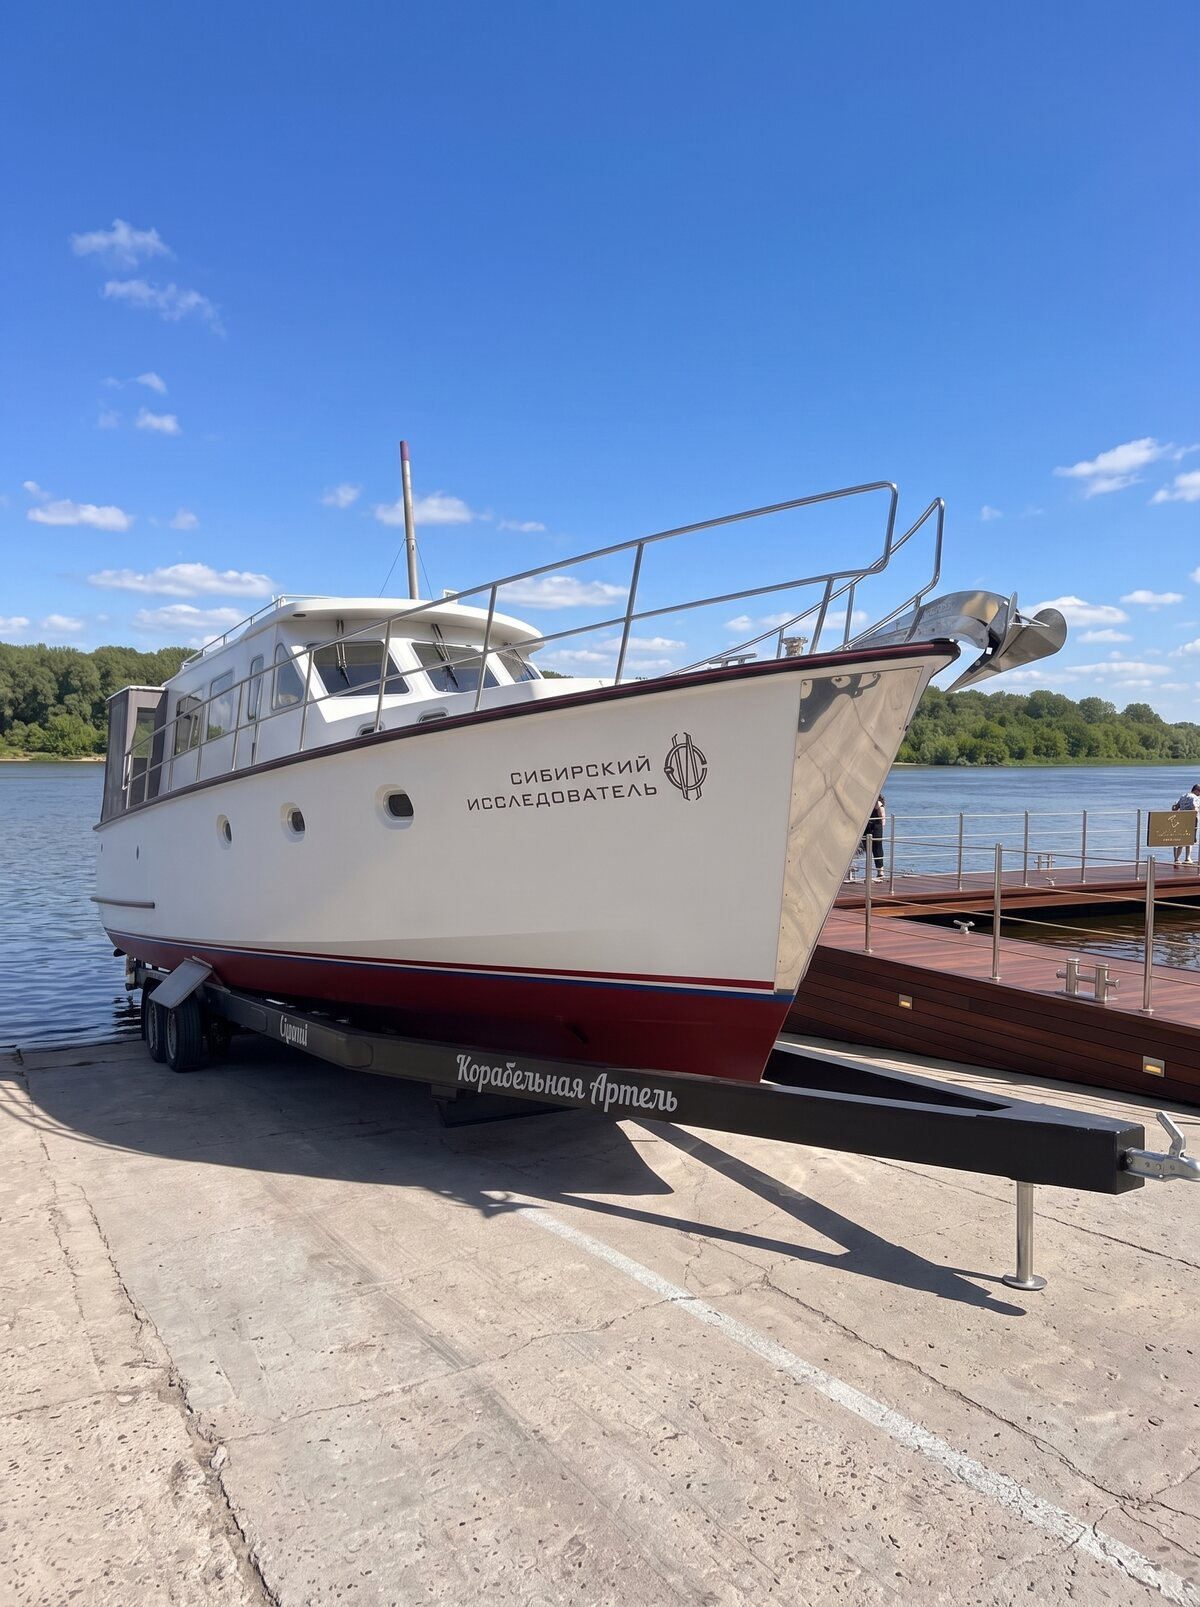
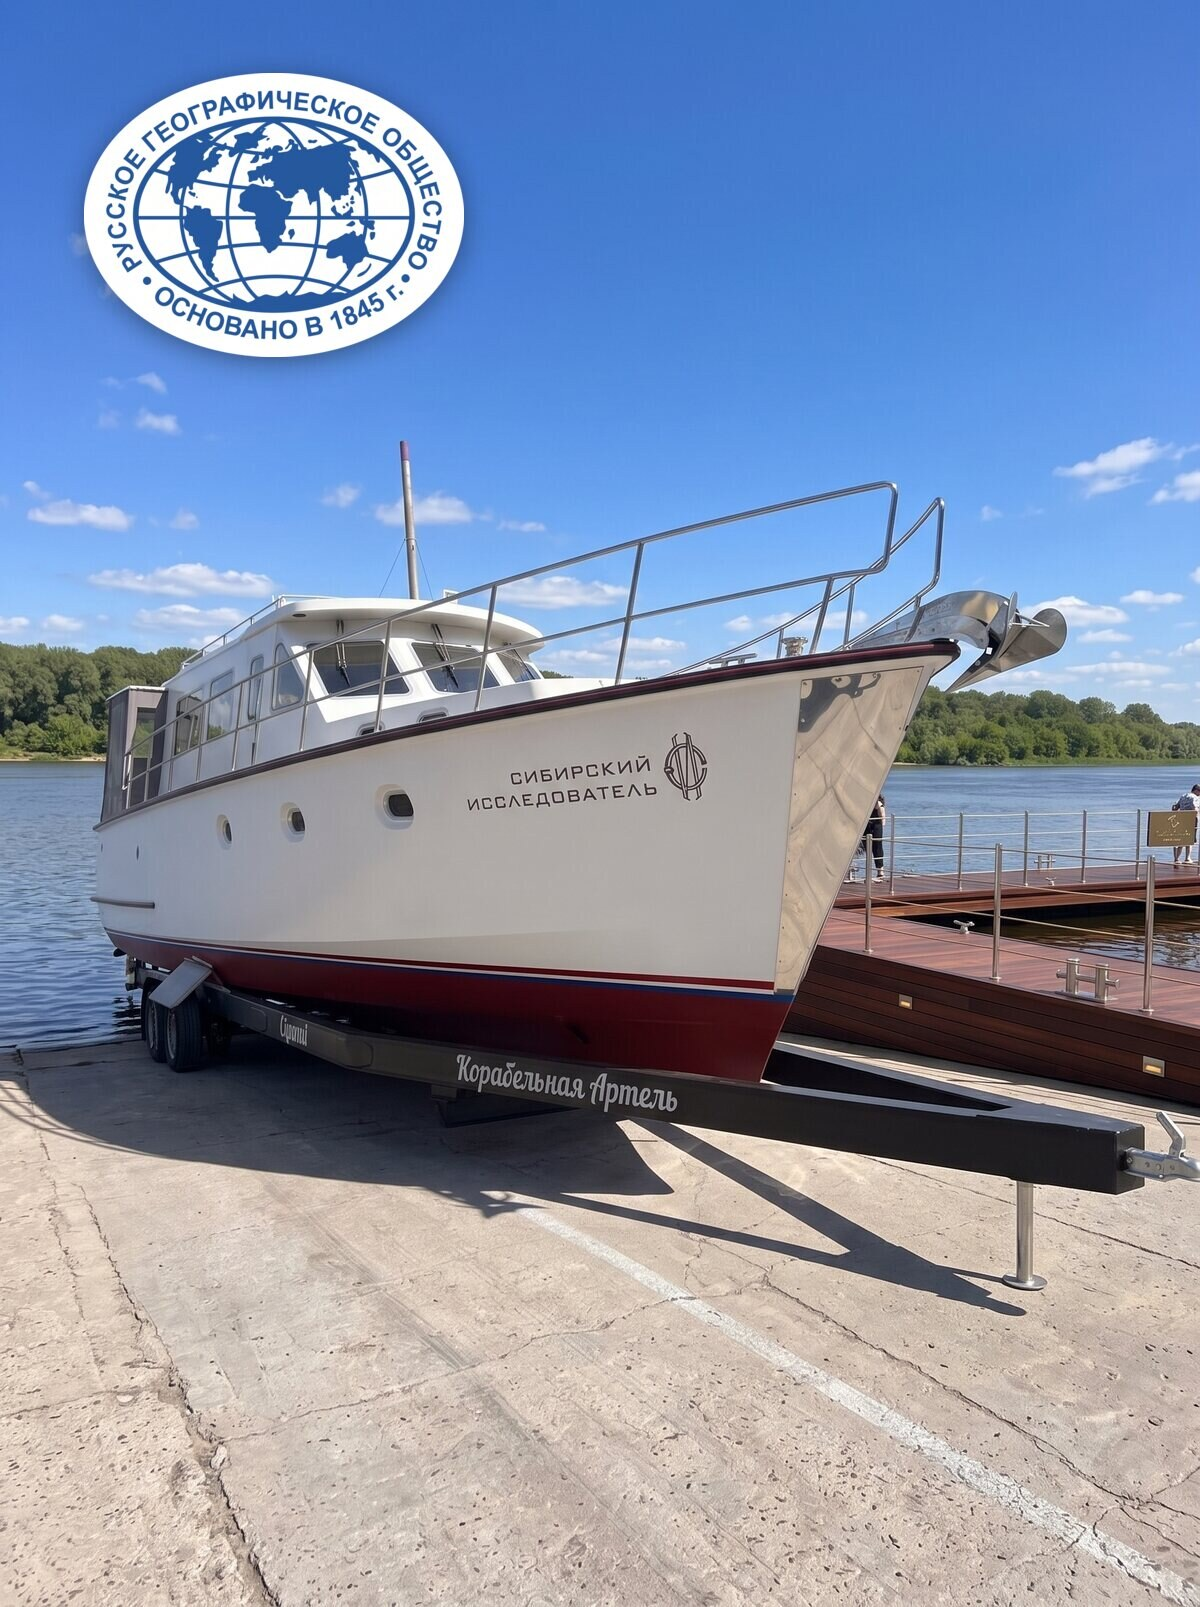
Fleet: strip photo hero for clean header; add client badges to sold T-Rex 37/40 & Siberian
- Fleet header: remove washed-out photo hero, replace with a light typographic
  band ("Флот Корабельной артели") flowing out of the nav, tabs below.
- T-Rex 37 card: МЧС Казахстан emblem, top-left (trex37-card.jpg + cardImg).
- T-Rex 40 card: Служба спасения Саратовской области medal on wavy flag,
  top-left (trex40-card.jpg + cardImg).
- Сибирский card: РГО oval emblem badge, top-left (sibirsky-card.jpg updated).
- fleet.js: cache-bust card images (IMG_V) so replaced-in-place photos refresh.

Changed region(s): [[0.0617, 0.0311, 0.4008, 0.2489]]

diff --git a/css/styles.css b/css/styles.css
@@ -365,28 +365,24 @@ button{font:inherit;color:inherit;background:none;border:none;cursor:pointer}
 /* ============================================================
    FLEET PAGE  (hero + family sections of boat cards + filters)
    ============================================================ */
-.fleet-hero{position:relative;min-height:clamp(440px,60vh,640px);display:flex;flex-direction:column;justify-content:flex-end;color:var(--white);overflow:hidden}
-.fleet-hero__bg{position:absolute;inset:0;background-size:cover;background-position:center;filter:brightness(.62) saturate(1.12)}
-.fleet-hero__scrim{position:absolute;inset:0;background:
-  linear-gradient(180deg,rgba(0,0,0,.35),transparent 40%),
-  linear-gradient(0deg,rgba(0,0,0,.72),transparent 55%)}
-.fleet-hero__inner{position:relative;z-index:2;width:100%;max-width:var(--maxw);margin:0 auto;padding:clamp(2rem,5vw,4rem) var(--gutter)}
-.fleet-hero__title{font-family:var(--serif);font-weight:600;font-size:clamp(2.4rem,5vw,4rem);line-height:1;text-shadow:0 2px 24px rgba(0,0,0,.5)}
-.fleet-hero__sub{margin-top:1rem;max-width:46ch;font-size:clamp(1rem,1.3vw,1.15rem);line-height:1.5;color:rgba(255,255,255,.92);text-shadow:0 1px 12px rgba(0,0,0,.5)}
-/* filter band tucked into the bottom of the hero image */
+.fleet-hero{position:relative;display:flex;flex-direction:column;justify-content:flex-end;
+  color:var(--text);background:var(--white);overflow:hidden}
+.fleet-hero__inner{position:relative;z-index:2;width:100%;max-width:var(--maxw);margin:0 auto;
+  padding:clamp(2.25rem,5vw,3.75rem) var(--gutter) clamp(1.75rem,3.5vw,2.5rem)}
+.fleet-hero__title{font-family:var(--serif);font-weight:600;font-size:clamp(1.9rem,3.2vw,2.75rem);line-height:1.05;color:var(--navy)}
+.fleet-hero__sub{margin-top:1rem;max-width:46ch;font-size:clamp(1rem,1.3vw,1.15rem);line-height:1.5;color:var(--text-2)}
+/* filter band tucked at the base of the header */
 .fleet-hero__band{position:relative;z-index:3;
-  background:linear-gradient(0deg,rgba(11,15,40,.85),rgba(11,15,40,.42));
-  -webkit-backdrop-filter:blur(3px);backdrop-filter:blur(3px);
-  border-top:1px solid rgba(255,255,255,.16)}
+  border-top:1px solid var(--grey-100)}
 .fleet-hero__band-inner{width:100%;max-width:var(--maxw);margin:0 auto;padding:0 var(--gutter);
   display:flex;gap:.5rem}
 .fleet-tab{flex:1 1 0;position:relative;background:none;border:0;cursor:pointer;
   font-family:var(--sans);font-weight:600;font-size:clamp(13px,1.05vw,15px);letter-spacing:.01em;
-  color:rgba(255,255,255,.66);padding:1.35rem .5rem 1.5rem;transition:color .2s ease}
+  color:var(--grey-500);padding:1.35rem .5rem 1.5rem;transition:color .2s ease}
 .fleet-tab::after{content:"";position:absolute;left:.6rem;right:.6rem;bottom:1rem;height:2px;
-  border-radius:2px;background:rgba(255,255,255,.2);transition:background .2s ease}
-.fleet-tab:hover{color:#fff}
-.fleet-tab.is-active{color:#fff}
+  border-radius:2px;background:var(--grey-100);transition:background .2s ease}
+.fleet-tab:hover{color:var(--navy)}
+.fleet-tab.is-active{color:var(--navy)}
 .fleet-tab.is-active::after{background:var(--brass)}
 
 /* filter + quick-link bar */

diff --git a/fleet.html b/fleet.html
@@ -8,7 +8,7 @@
 <link rel="preconnect" href="https://fonts.googleapis.com">
 <link rel="preconnect" href="https://fonts.gstatic.com" crossorigin>
 <link href="https://fonts.googleapis.com/css2?family=IBM+Plex+Serif:wght@400;500;600&family=Manrope:wght@400;500;600;700&display=swap" rel="stylesheet">
-<link rel="stylesheet" href="css/styles.css?v=133">
+<link rel="stylesheet" href="css/styles.css?v=138">
 </head>
 <body>
 
@@ -29,13 +29,10 @@
 
   <!-- ===================== FLEET ===================== -->
   <main>
-    <!-- HERO with filter band tucked into the bottom of the image -->
+    <!-- HEADER — solid ink band flowing out of the nav; filter tabs tucked at its base -->
     <section class="fleet-hero">
-      <div class="fleet-hero__bg" style="background-image:url('assets/img/fleet-hero.jpg')"></div>
-      <div class="fleet-hero__scrim"></div>
       <div class="fleet-hero__inner">
-        <h1 class="fleet-hero__title">Флот</h1>
-        <p class="fleet-hero__sub">Катера, экспедиционные суда, прогулочные лодки и корабли — построенные на верфи в Саратове с 1992 года.</p>
+        <h1 class="fleet-hero__title">Флот Корабельной артели</h1>
       </div>
       <div class="fleet-hero__band">
         <div class="fleet-hero__band-inner" id="fleetControls">
@@ -155,7 +152,7 @@
     </div>
   </footer>
 
-  <script src="js/boats-data.js?v=215"></script>
-  <script src="js/fleet.js?v=38"></script>
+  <script src="js/boats-data.js?v=218"></script>
+  <script src="js/fleet.js?v=39"></script>
 </body>
 </html>

diff --git a/js/boats-data.js b/js/boats-data.js
@@ -94,7 +94,7 @@ const BOATS = [
         { name: "нижняя палуба", items: ["мастер-каюта","носовая каюта","детская каюта","два санузла","душевая"] }
       ]
     } },
-  { id: "trex-40", family: "trex", name: "T-Rex 40", status: "sold", year: "2020", img: "trex40-4.jpg",
+  { id: "trex-40", family: "trex", name: "T-Rex 40", status: "sold", year: "2020", img: "trex40-4.jpg", cardImg: "trex40-card.jpg",
     photos: {
       hero2: "trex40-2.jpg", hero2Pos: "center 28%", overview: "trex40-3.jpg", construction: "trex40-story2.jpg",
       thumbs: ["trex40-i1.jpg","trex40-i2.jpg","trex40-i3.jpg","trex40-i4.jpg","trex40-i5.jpg","trex40-i6.jpg"],
@@ -128,7 +128,7 @@ const BOATS = [
         { name: "вид спереди", items: [] }
       ]
     } },
-  { id: "trex-37", family: "trex", name: "T-Rex 37", status: "sold", year: "2018", img: "trex37-2.jpg", cardPos: "40% 50%",
+  { id: "trex-37", family: "trex", name: "T-Rex 37", status: "sold", year: "2018", img: "trex37-2.jpg", cardImg: "trex37-card.jpg", cardPos: "40% 50%",
     photos: {
       hero2: "trex37.jpg?v=2", overview: "trex37-overview.jpg", construction: "trex37-story.jpg",
       thumbs: ["trex37-i1.jpg","trex37-i2.jpg","trex37-i3.jpg","trex37-i4.jpg","trex37-i5.jpg","trex37-i6.jpg"],

diff --git a/js/fleet.js b/js/fleet.js
@@ -1,6 +1,10 @@
 /* Флот — renders the fleet from BOATS (js/boats-data.js), grouped by family,
    with status filters. Each card links to the boat detail page. */
 
+/* Bump when a card image file is replaced in place (same filename) so browsers
+   re-fetch it instead of serving the cached old picture. */
+const IMG_V = 219;
+
 function boatCard(b) {
   const badge = `<span class="boat-card__badge boat-card__badge--${b.status}">${STATUS_LABEL[b.status]}</span>`;
   const tags = (b.tags || []).map((t) => `<span class="boat-card__tag">${t}</span>`).join("");
@@ -15,7 +19,7 @@ function boatCard(b) {
   const nolinkClass = b.noLink ? " boat-card--nolink" : "";
   return `
     <${tag} class="boat-card${nolinkClass}"${href} data-status="${b.status}" aria-label="${b.name}">
-      <img class="boat-card__img" src="assets/img/${b.cardImg || b.img}"${b.cardPos ? ` style="object-position:${b.cardPos}"` : ""} alt="${b.name}">
+      <img class="boat-card__img" src="assets/img/${b.cardImg || b.img}?v=${IMG_V}"${b.cardPos ? ` style="object-position:${b.cardPos}"` : ""} alt="${b.name}">
       <div class="boat-card__scrim"></div>
       <div class="boat-card__badges">${badge}${tags}</div>
       <div class="boat-card__meta">
